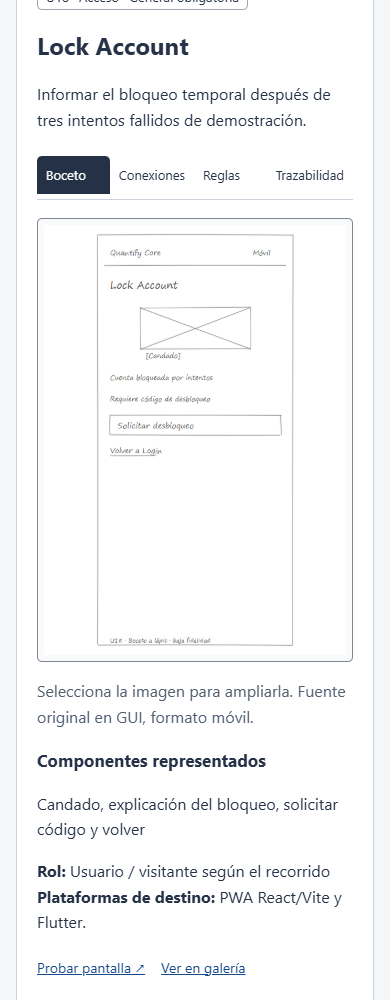
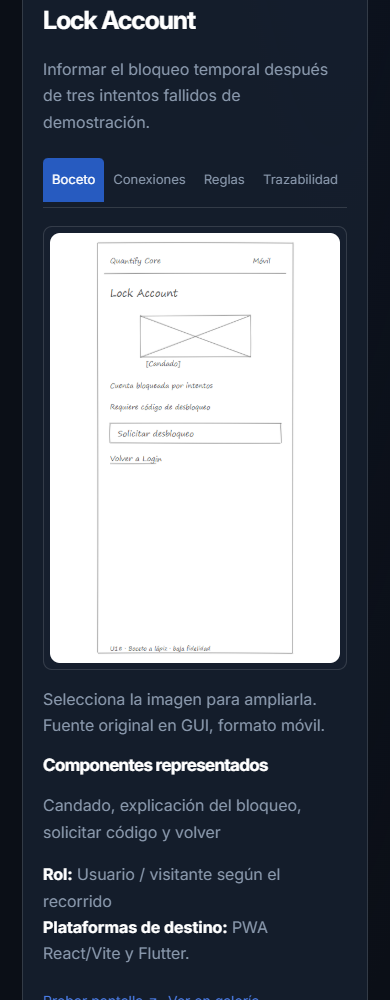
fix(practica-07): aplicar identidad Quantify y destacar Archify

diff --git a/docs/practica-07/entrega.css b/docs/practica-07/entrega.css
@@ -1,1 +1,8 @@
-:root{font-family:system-ui,sans-serif;color:#243146;background:#f5f6f8;line-height:1.6}*{box-sizing:border-box}body{margin:0}header,main,footer{max-width:1180px;margin:auto;padding:24px}header{border-bottom:1px solid #cbd2db}h1{font-size:clamp(25px,4vw,40px);line-height:1.2}h2{line-height:1.3}nav,.links{display:flex;flex-wrap:wrap;gap:16px}a{color:#174a8b}button,select,input{font:inherit;padding:9px;border:1px solid #7c8796;border-radius:5px;background:white;color:#243146}button{cursor:pointer}button[aria-pressed=true]{background:#243146;color:white}a:focus-visible,button:focus-visible{outline:3px solid #956300;outline-offset:3px}.grid{display:grid;grid-template-columns:repeat(auto-fit,minmax(270px,1fr));gap:20px}.card{background:white;border:1px solid #cbd2db;border-radius:10px;padding:20px;min-width:0}.card img{display:block;width:100%;max-height:410px;object-fit:contain;object-position:top;border:1px solid #ddd;background:#fff}small,.muted{color:#526073}.badge{display:inline-block;border:1px solid #a0a8b2;border-radius:5px;padding:2px 8px;font-size:13px}.notice{padding:18px;border-left:4px solid #89611a;background:#fff8e9}table{width:100%;border-collapse:collapse;background:white}th,td{text-align:left;padding:12px;border:1px solid #cbd2db;vertical-align:top}.table-wrap{overflow:auto}.map-layout{display:grid;grid-template-columns:minmax(0,1fr) 320px;gap:18px}.map-wrap{overflow:auto;background:white;border:1px solid #cbd2db}.map-wrap svg{display:block}.map-node{cursor:pointer}.map-node:focus rect{stroke:#89611a;stroke-width:3}#routes button{width:100%;text-align:left;margin:5px 0}#routes img{width:100%;max-height:250px;object-fit:contain}#catalog{margin-top:24px}code{overflow-wrap:anywhere}@media(max-width:800px){.map-layout{display:block}header,main,footer{padding:16px}.grid{grid-template-columns:1fr}#routes{margin-top:18px}}@media print{nav,button{display:none}.grid{grid-template-columns:1fr 1fr}.card{break-inside:avoid}.map-layout{display:block}}
+@import url('../../packages/design-tokens/themes.css');
+@font-face{font-family:Inter;src:url('../GUI/assets/inter.woff2') format('woff2');font-weight:100 900;font-display:swap}
+:root{font-family:Inter,system-ui,sans-serif;color:var(--qc-text);background:var(--qc-canvas);line-height:1.65;--accent:var(--qc-icon-active);--stroke:color-mix(in srgb,var(--qc-text) 13%,transparent);--glass:color-mix(in srgb,var(--qc-surface) 88%,transparent);--blue-wash:color-mix(in srgb,var(--qc-action) 14%,var(--qc-canvas))}*{box-sizing:border-box}body{margin:0;background:radial-gradient(ellipse at 85% 0%,var(--blue-wash),transparent 58%),var(--qc-canvas);min-height:100vh}header,main,footer{max-width:1320px;margin:auto;padding:32px}body>header{padding-top:52px;padding-bottom:38px;border-bottom:1px solid var(--stroke)}h1,h2,h3{letter-spacing:-.035em;line-height:1.16;color:var(--qc-text)}h1{font-size:clamp(32px,4.7vw,62px);max-width:1050px;margin:18px 0 24px;font-weight:750}h2{font-size:25px}h3{font-size:19px}p{color:var(--qc-muted)}strong{color:var(--qc-text)}a{color:var(--accent);text-underline-offset:4px}a:hover{color:var(--qc-text)}nav,.links{display:flex;flex-wrap:wrap;gap:10px}body>header nav{margin-top:25px}body>header nav a{padding:9px 15px;border:1px solid var(--stroke);border-radius:9px;text-decoration:none;font-size:13px;background:var(--glass);color:var(--qc-text)}body>header nav a:hover{border-color:var(--accent);background:var(--blue-wash)}button,select,input{font:inherit;font-size:14px;padding:11px 13px;border:1px solid var(--qc-control-border);border-radius:9px;background:var(--qc-surface);color:var(--qc-text);min-height:44px}button{cursor:pointer;transition:background .16s,border-color .16s}button:hover{border-color:var(--accent);background:var(--blue-wash)}button[aria-pressed=true]{background:var(--qc-action);color:var(--qc-on-action)}a:focus-visible,button:focus-visible,select:focus-visible,input:focus-visible{outline:3px solid var(--qc-focus);outline-offset:3px}.grid{display:grid;grid-template-columns:repeat(auto-fit,minmax(280px,1fr));gap:22px}.card{background:var(--glass);border:1px solid var(--stroke);border-radius:18px;padding:26px;min-width:0;box-shadow:0 12px 30px #00000008}.card img{display:block;width:100%;max-height:410px;object-fit:contain;object-position:top;border:1px solid var(--stroke);background:white;border-radius:10px}small,.muted{color:var(--qc-muted)}.badge,.eyebrow{font-size:11px;letter-spacing:.1em;text-transform:uppercase;font-weight:700;color:var(--accent)}.badge{display:inline-flex;align-items:center;gap:8px;border:1px solid color-mix(in srgb,var(--qc-action) 35%,transparent);background:var(--blue-wash);border-radius:7px;padding:5px 10px}.notice{padding:20px;border-left:3px solid var(--qc-action);background:var(--blue-wash)}table{width:100%;border-collapse:collapse;background:var(--qc-surface);font-size:14px}th,td{text-align:left;padding:14px 17px;border:1px solid var(--stroke);vertical-align:top}th{background:var(--blue-wash);font-size:12px;color:var(--accent)}.table-wrap{overflow:auto;border-radius:12px}.map-wrap{overflow:auto;background:var(--qc-surface);border:1px solid var(--stroke)}.map-wrap svg{display:block}.map-node{cursor:pointer}.map-node rect{fill:var(--qc-surface);stroke:var(--qc-control-border)}.map-node[aria-pressed=true] rect{fill:var(--blue-wash);stroke:var(--accent)}.map-node text{fill:var(--qc-text)}.map-node text:first-of-type{fill:var(--accent)}.map-node:focus rect{stroke:var(--qc-focus);stroke-width:3}.map-edge{stroke:var(--accent)}#routes button{width:100%;text-align:left;margin:5px 0}#routes img{width:100%;max-height:250px;object-fit:contain}#catalog{margin-top:26px}#catalog .card h2{font-size:21px}#catalog .card .links a{font-size:12px}code{overflow-wrap:anywhere;color:var(--accent)}summary{cursor:pointer}footer{margin-top:40px;border-top:1px solid var(--stroke);font-size:13px;color:var(--qc-muted)}
+.site-topbar{position:sticky;top:0;z-index:50;background:color-mix(in srgb,var(--qc-canvas) 94%,transparent);backdrop-filter:blur(18px);border-bottom:1px solid var(--stroke)}.site-topbar-inner{max-width:1320px;margin:auto;padding:15px 32px;display:flex;align-items:center;justify-content:space-between;gap:24px}.site-brand{display:flex;align-items:center;gap:12px;text-decoration:none;color:var(--qc-text);font-size:18px;font-weight:750;white-space:nowrap;letter-spacing:-.05em}.site-brand img{width:58px;height:43px;object-fit:contain;background:transparent}.site-topbar nav{align-items:center;gap:22px}.site-topbar nav a{font-size:12px;text-decoration:none;color:var(--qc-muted)}.site-topbar nav a.active{color:var(--accent)}.site-topbar button{font-size:12px;min-height:34px;padding:6px 11px;border-color:var(--stroke)}.brand-footer{display:flex;align-items:center;justify-content:space-between;gap:20px;margin-top:36px}.brand-footer img{width:105px;height:70px;object-fit:contain;background:transparent}.pill-link,.action-link{display:inline-flex;align-items:center;justify-content:center;gap:12px;border-radius:10px;padding:12px 18px;text-decoration:none;font-size:13px;font-weight:650;border:1px solid var(--stroke);color:var(--qc-text);background:var(--qc-surface)}.action-link{background:var(--qc-action);border-color:var(--qc-action);color:var(--qc-on-action)}.action-link:hover{background:var(--qc-focus);color:var(--qc-on-action)}.pill-link:hover{border-color:var(--accent);background:var(--blue-wash)}
+.landing-hero{display:grid;grid-template-columns:1.2fr 1fr;align-items:center;gap:70px;padding-top:55px;padding-bottom:58px}.landing-hero h1{font-size:clamp(38px,5.1vw,68px);line-height:1.05;letter-spacing:-.055em}.landing-hero h1 em{font-style:normal;color:var(--accent)}.landing-hero .hero-copy{max-width:550px;font-size:15px}.hero-actions{display:flex;flex-wrap:wrap;gap:12px;margin-top:26px}.hero-stats{display:flex;gap:32px;margin-top:35px}.hero-stats strong{font-size:28px;display:block;letter-spacing:-.04em}.hero-stats span{display:block;color:var(--qc-muted);font-size:11px;letter-spacing:.04em}.hero-board{position:relative;border:1px solid var(--stroke);background:linear-gradient(145deg,var(--blue-wash),var(--qc-surface));border-radius:24px;padding:30px;overflow:hidden;box-shadow:0 30px 70px #00000022}.hero-board>img{display:block;width:180px;height:100px;object-fit:contain;margin:0 auto 20px}.board-label{display:flex;justify-content:space-between;font-size:10px;letter-spacing:.1em;color:var(--qc-muted);margin-bottom:22px}.board-label i{height:7px;width:7px;display:inline-block;background:var(--accent);border-radius:50%;margin-right:6px}.flow-row{display:flex;align-items:center;justify-content:center;gap:12px}.flow-node{border:1px solid var(--stroke);background:var(--qc-surface);padding:15px;border-radius:10px;flex:1;font-size:13px;font-weight:600;text-align:center}.flow-node small{display:block;font-size:10px;font-weight:400;margin-top:5px}.flow-node.blue{border-color:var(--qc-action);background:var(--blue-wash)}.flow-connector{text-align:center;color:var(--accent);font-size:23px;line-height:1.5;margin:8px}.board-caption{font-size:11px;margin:22px 0 0;text-align:center;color:var(--qc-muted)}.section-heading{display:flex;align-items:end;justify-content:space-between;gap:20px;margin:15px 0 24px}.section-heading h2{font-size:30px;margin:7px 0}.section-heading p{font-size:13px;margin:0}.feature-grid{display:grid;grid-template-columns:repeat(2,minmax(0,1fr));gap:20px}.feature-card{display:grid;grid-template-columns:1fr 130px;gap:22px;align-items:center;text-decoration:none;color:var(--qc-text);padding:26px;background:var(--qc-surface);border:1px solid var(--stroke);border-radius:16px}.feature-card:hover{border-color:var(--accent);transform:translateY(-2px)}.feature-card h3{font-size:22px;margin:12px 0}.feature-card p{font-size:13px;margin:0 0 18px}.feature-card>img{width:130px;height:170px;object-fit:contain;background:white;border-radius:8px;padding:6px}.feature-card .card-action{font-size:12px;color:var(--accent);font-weight:650}.feature-card .feature-number{font-size:11px;color:var(--accent);font-weight:600;letter-spacing:.1em}.feature-card .symbol{font-size:44px;text-align:center;color:var(--accent);opacity:.9}.archify-callout{display:flex;align-items:center;justify-content:space-between;gap:24px;margin:28px 0;padding:27px 30px;background:linear-gradient(110deg,var(--blue-wash),var(--qc-surface));border:1px solid color-mix(in srgb,var(--qc-action) 45%,transparent);border-radius:16px}.archify-callout h2{margin:7px 0;font-size:24px}.archify-callout p{font-size:13px;max-width:650px;margin:0}.archify-viewer{width:100%;height:76vh;border:1px solid var(--stroke);border-radius:16px;background:var(--qc-surface)}.top-archify{display:flex;align-items:center;gap:16px;justify-content:space-between;margin:0 0 24px;padding:18px 22px;border:1px solid var(--qc-action);border-radius:13px;background:var(--blue-wash)}.top-archify p{font-size:12px;margin:4px 0}.top-archify strong{font-size:14px}
+@media(max-width:900px){.landing-hero{grid-template-columns:1fr;gap:32px}.hero-board{max-width:600px}.site-topbar nav a:not(.active){display:none}.site-topbar-inner{gap:12px}.landing-hero h1{max-width:670px}.feature-card{grid-template-columns:1fr 100px}.feature-card>img{width:100px}}
+@media(max-width:600px){header,main,footer{padding:22px}.site-topbar-inner{padding:12px 18px}.site-brand{font-size:15px;gap:7px}.site-brand img{width:42px;height:32px}.site-topbar nav{gap:10px}.site-topbar nav a.active{display:none}.feature-grid{grid-template-columns:1fr}.feature-card{padding:22px;gap:12px}.landing-hero{padding-top:32px;padding-bottom:32px}.hero-stats{gap:26px}.hero-board{padding:22px}.archify-callout,.top-archify{flex-direction:column;align-items:stretch}.section-heading{align-items:start;flex-direction:column}.grid{grid-template-columns:minmax(0,1fr)}.card{padding:20px}.brand-footer{align-items:start}.site-topbar{position:relative}h1{font-size:36px}}
+@media print{.site-topbar,nav,button{display:none}:root{--qc-canvas:white;--qc-surface:white;--qc-text:black;--qc-muted:#333}body{background:white}.card{break-inside:avoid}.feature-grid{grid-template-columns:1fr}}

diff --git a/docs/practica-07/entrega.html b/docs/practica-07/entrega.html
@@ -1,17 +1,10 @@
-<!doctype html>
-<html lang="es"><head><meta charset="utf-8"><meta name="viewport" content="width=device-width,initial-scale=1"><title>Práctica 07 · Revisión</title><link rel="stylesheet" href="entrega.css"></head>
-<body><header><p>PRÁCTICA 07</p><h1>Navegación de sketches</h1><p>Revisa los quince puntos desde una sola carpeta: requisitos, roles, 33 pantallas, recorridos, diagramas y evidencias. Los bocetos originales se consultan en GUI.</p><nav><a href="revision.html">Guía completa de los 15 puntos</a><a href="../../index.html#proyecto">Proyecto</a><a href="../GUI/practica-07.html">GUI</a></nav></header>
-<main><div class="grid">
-<article class="card"><span class="badge">01 · Documentación</span><h2>Qué se solicita y dónde está</h2><p>La guía organiza los quince puntos con referencias a las fuentes, fichas por pantalla y criterios de revisión.</p><p><a href="revision.html#índice">Revisar punto por punto →</a></p><a href="revision.html#punto-1">Requisitos e historias</a></article>
-<article class="card"><span class="badge">02 · Bocetos</span><h2>Galería móvil y PWA</h2><a href="galeria.html"><img src="evidencias/contacto-movil.png" alt="Vista de los 33 sketches móviles" loading="lazy"></a><p>Nueve vistas generales y 24 adicionales. Cada pantalla enlaza al dibujo original, su ficha y su recorrido.</p><a href="galeria.html">Abrir galería →</a></article>
-<article class="card"><span class="badge">03 · Navegación</span><h2>Explorar las conexiones</h2><a href="navegacion.html#U02"><img src="../GUI/prototipos/pwa/sketches/practica-07/U02.png" alt="Boceto PWA del acceso, disponible dentro del explorador" loading="lazy"></a><p>Mapa con imágenes, ocho recorridos guiados, búsqueda, zoom y pestañas con conexiones, reglas y trazabilidad.</p><a href="navegacion.html">Abrir explorador →</a></article>
-<article class="card"><span class="badge">04 · Prototipo</span><h2>Probar las pantallas</h2><a href="index.html#usuario/U06"><img src="../GUI/prototipos/movil/sketches/practica-07/U06.png" alt="Boceto de Home" loading="lazy"></a><p>Simulación de acceso, recuperación, bloqueo, hábitos, seguimiento y operaciones administrativas en dos formatos.</p><a href="index.html">Recorrer prototipo →</a></article>
-</div>
-<h2>Documentos y ubicaciones originales</h2><div class="table-wrap"><table><thead><tr><th>Recurso</th><th>Consulta</th><th>Qué revisar</th></tr></thead><tbody>
-<tr><td>Requisitos</td><td><a href="lecturas/requisitos.html">Catálogo</a></td><td>49 operaciones en diez familias y quince requisitos no funcionales</td></tr>
-<tr><td>Historias y reglas</td><td><a href="lecturas/historias.html">Historias</a> · <a href="lecturas/reglas.html">Reglas</a></td><td>Actores, objetivos, aceptación y condiciones del dominio</td></tr>
-<tr><td>Sketches</td><td><a href="../GUI/practica-07.html">GUI móvil</a> · <a href="../GUI/practica-07.html">GUI PWA</a></td><td>66 PNG y 66 SVG, sin copias en esta carpeta</td></tr>
-<tr><td>Archify</td><td><a href="navegacion.html#U16">Original y ampliación en el explorador</a></td><td>Original conservado de doce pantallas; especificación ampliada pendiente de ejecución</td></tr>
-<tr><td>Validación</td><td><a href="revision.html#validacion">Resultados y evidencias</a></td><td>Escenarios ejecutados, capturas y límites de las comprobaciones</td></tr>
-</tbody></table></div><p><a href="revision.html#cumplimiento">Consultar estado de cumplimiento y pendientes →</a></p></main>
-<footer>Práctica 07 · <a href="revision.html">Documentación completa</a></footer></body></html>
+<!doctype html><html lang="es"><head><meta charset="utf-8"><meta name="viewport" content="width=device-width,initial-scale=1"><meta name="theme-color" content="#0B0F17"><title>Quantify · Práctica 07</title><script src="marca.js"></script><link rel="stylesheet" href="entrega.css"></head><body>
+<header class="landing-hero"><div><span class="badge">Proyecto integrador / Práctica 07</span><h1>Cada pantalla.<br>Un recorrido<br><em>con propósito.</em></h1><p class="hero-copy">De la primera sesión al siguiente hábito. Explora las interfaces de Quantify, sus conexiones y las decisiones detrás de cada paso.</p><div class="hero-actions"><a class="action-link" href="archify.html">Abrir Archify interactivo ↗</a><a class="pill-link" href="revision.html">Revisar los 15 puntos →</a></div><div class="hero-stats"><div><strong>33</strong><span>PANTALLAS</span></div><div><strong>131</strong><span>CONEXIONES</span></div><div><strong>02</strong><span>PLATAFORMAS</span></div></div></div><div class="hero-board" aria-label="Vista general de los recorridos"><div class="board-label"><span><i></i>QUANTIFY / EXPERIENCE MAP</span><span>V.07</span></div><img src="../../assets/images/brand/product-dark.png" alt="Quantify"><div class="flow-row"><div class="flow-node blue">Acceso<small>Identidad y seguridad</small></div></div><div class="flow-connector" aria-hidden="true">↓</div><div class="flow-row"><div class="flow-node">Tu rutina<small>Hábitos y progreso</small></div><span aria-hidden="true">→</span><div class="flow-node blue">Seguimiento<small>Análisis y resultados</small></div></div><div class="flow-connector" aria-hidden="true">↓</div><div class="flow-row"><div class="flow-node">Recomendaciones<small>Decisiones del usuario</small></div><span aria-hidden="true">↔</span><div class="flow-node">Ajustes<small>Preferencias y control</small></div></div><p class="board-caption">Usuario y administrador · Móvil y PWA</p></div></header>
+<main><div class="section-heading"><div><span class="eyebrow">EXPLORA LA PRÁCTICA</span><h2>Todo conectado. Todo en su lugar.</h2></div><p>Elige cómo quieres revisar el proyecto.</p></div><div class="feature-grid">
+<a class="feature-card" href="revision.html"><div><span class="feature-number">01 / GUÍA DE REVISIÓN</span><h3>Los 15 puntos,<br>paso a paso.</h3><p>Requisitos, roles, navegación, decisiones y resultados. Una guía clara para revisar lo solicitado.</p><span class="card-action">Comenzar la revisión →</span></div><div class="symbol" aria-hidden="true">≡<br><small>01 — 15</small></div></a>
+<a class="feature-card" href="../GUI/practica-07.html"><div><span class="feature-number">02 / GALERÍA GUI</span><h3>La idea antes<br>de la interfaz.</h3><p>Los 33 sketches originales, organizados por rol y disponibles en móvil y PWA.</p><span class="card-action">Explorar los bocetos →</span></div><img src="../GUI/prototipos/movil/sketches/practica-07/U06.png" alt="Sketch original de Home"></a>
+<a class="feature-card" href="navegacion.html"><div><span class="feature-number">03 / MAPA COMPLETO</span><h3>Cada acción tiene<br>un siguiente paso.</h3><p>33 pantallas, 131 conexiones y ocho recorridos guiados. Consulta bocetos, reglas y condiciones.</p><span class="card-action">Abrir el mapa conectado →</span></div><div class="symbol" aria-hidden="true">⌘<br><small>33 NODOS</small></div></a>
+<a class="feature-card" href="index.html"><div><span class="feature-number">04 / PROTOTIPO</span><h3>Recorre Quantify<br>a tu ritmo.</h3><p>Prueba las pantallas de acceso, hábitos, análisis y administración en dos formatos.</p><span class="card-action">Probar el recorrido →</span></div><img src="../GUI/prototipos/movil/sketches/practica-07/U02.png" alt="Sketch original de Login"></a></div>
+<section class="archify-callout"><div><span class="eyebrow">ARCHIFY INTERACTIVO</span><h2>El diagrama original, a un clic.</h2><p>Abre el artefacto generado con Archify. Para consultar las 33 pantallas de la ampliación, usa el mapa completo.</p></div><a class="action-link" href="archify.html">Abrir Archify ↗</a></section>
+<div class="section-heading"><div><span class="eyebrow">PROFUNDIZA</span><h2>Detrás de cada pantalla.</h2></div></div><div class="grid"><article class="card"><span class="badge">FICHAS</span><h3>Qué hace cada pantalla</h3><p>Componentes, acciones, roles y relaciones de las 33 vistas.</p><a href="fichas.html">Consultar las fichas →</a></article><article class="card"><span class="badge">BASE DEL PROYECTO</span><h3>Requisitos e historias</h3><p>Las necesidades y reglas que justifican los recorridos.</p><a href="lecturas/requisitos.html">Consultar requisitos →</a></article><article class="card"><span class="badge">VALIDACIÓN</span><h3>Decisiones y resultados</h3><p>Proceso, recorridos comprobados, evidencias y pendientes.</p><a href="referencia.html#validacion">Consultar revisión →</a></article></div></main>
+<footer class="brand-footer"><a class="site-brand" href="../../index.html#practica-07"><img src="../../assets/images/brand/product-dark.png" alt="Quantify"><span>Quantify Core</span></a><span>Práctica 07 / Diseño de navegación<br><a href="revision.html">Ver la guía completa →</a></span></footer></body></html>

diff --git a/docs/practica-07/referencia.html b/docs/practica-07/referencia.html
@@ -1,5 +1,5 @@
 <!doctype html>
-<html lang="es"><head><meta charset="utf-8"><meta name="viewport" content="width=device-width,initial-scale=1"><title>Referencia técnica de Práctica 07</title><link rel="stylesheet" href="./entrega.css"><link rel="stylesheet" href="./lectura.css"><script src="./lectura.js" defer></script></head>
+<html lang="es"><head><meta charset="utf-8"><meta name="viewport" content="width=device-width,initial-scale=1"><title>Referencia técnica de Práctica 07</title><script src="./marca.js"></script><link rel="stylesheet" href="./entrega.css"><link rel="stylesheet" href="./lectura.css"><script src="./lectura.js" defer></script></head>
 <body><header><p class="eyebrow">PRÁCTICA 07</p><nav aria-label="Sección Práctica 07"><a href="../../index.html#practica-07">Volver al portal</a><a href="./revision.html">Los 15 puntos</a><a href="./navegacion.html">Diagrama conectado</a><a href="../GUI/practica-07.html">Galería de sketches</a><a href="./index.html">Prototipo</a></nav></header>
 <main class="reading"><h1 id="referencia-técnica-de-práctica-07">Referencia técnica de Práctica 07</h1>
 <p><a href="revision.html">Volver al README y sus 15 puntos</a>. Aquí se conservan las tablas detalladas, los comandos, el proceso y los resultados de pruebas.</p>
@@ -663,6 +663,10 @@ node docs/practica-07/tests/explorador-browser.cjs
 <p>El mapa complementario, la especificación preparada y el prompt propuesto no sustituyen una ejecución demostrable de Archify. La fusión o publicación no se realiza como efecto de editar esta matriz.</p>
 <p><a id="proceso"></a></p>
 <h2 id="proceso-decisiones-y-prompts">Proceso, decisiones y prompts</h2>
+<h3 id="identidad-visual-del-sitio-12-de-noviembre-de-2026">Identidad visual del sitio · 12 de noviembre de 2026</h3>
+<p>Se personalizaron la portada, las lecturas, la galería y el explorador con el logo existente de Quantify, Inter local y los colores de <code>packages/design-tokens/themes.css</code>. La interfaz comparte encabezado, temas oscuro/claro, tarjetas y jerarquía visual. Los PNG/SVG de sketches y el estilo del prototipo se conservaron.</p>
+<p>El acceso a <a href="archify.html">Archify interactivo</a> aparece en el encabezado común, en la portada y en la sección del portal. Su página carga directamente el HTML original en una vista amplia, con acceso a pantalla completa y al mapa ampliado. Esto mejora su visibilidad; no se presenta como una nueva generación del artefacto.</p>
+<p>Validación: cinco comprobaciones del portal y ocho del explorador aprobadas. Se revisaron además portada, guía, mapa y Archify a 390/1440 píxeles, carga de logo/fuente, cambio de tema y carga del original, sin desbordamientos ni errores locales. <a href="evidencias/resultados-marca.json">Informe visual</a> · <a href="evidencias/marca-entrega-1440.png">Portada</a> · <a href="evidencias/marca-revision-1440.png">Guía</a> · <a href="evidencias/marca-archify-390.png">Archify móvil</a>.</p>
 <h3 id="integración-en-el-portal-12-de-noviembre-de-2026">Integración en el portal · 12 de noviembre de 2026</h3>
 <p>La sección <code>#practica-07</code> del portal abre la guía de quince puntos, el mapa, la galería, el prototipo, las fichas y los resultados como vistas del mismo sitio. Se retiraron de esos accesos las URLs de archivos en GitHub y las etiquetas HTML/MD. El mapa parte de las 33 pantallas y dibuja las 131 transiciones; las salidas seleccionadas se resaltan sobre las demás.</p>
 <p>Las lecturas se generan desde el Markdown canónico, sin editar otra definición del contenido. Para regenerarlas, instalar <code>Markdown==3.8.2</code> en una carpeta temporal, exponerla mediante <code>PYTHONPATH</code> y ejecutar <code>python docs/practica-07/scripts/publicar-lecturas.py</code>. No modifica alojamiento ni publica por sí mismo.</p>

diff --git a/docs/GUI/practica-07.html b/docs/GUI/practica-07.html
@@ -1,1 +1,1 @@
-<!doctype html><html lang="es"><head><meta charset="utf-8"><meta name="viewport" content="width=device-width,initial-scale=1"><title>Práctica 07 · Galería de sketches</title><link rel="stylesheet" href="../practica-07/entrega.css"><script src="../practica-07/data.js" defer></script><script src="../practica-07/entrega.js" defer></script></head><body data-page="gallery" data-base="../practica-07/"><header><p>QUANTIFY CORE · PRÁCTICA 07</p><h1>33 sketches, dos plataformas</h1><p>Nueve pantallas generales obligatorias, funciones por rol y recorridos alternativos. Cada ficha incluye el boceto completo y su enlace al prototipo.</p><nav><a href="../practica-07/entrega.html">Guía de entrega</a><a href="../practica-07/index.html">Prototipo</a><a href="../practica-07/mapa-completo.html">Mapa completo</a><a href="../practica-07/fichas.html">Fichas de pantallas</a></nav></header><main><label>Filtrar por rol <select id="role-filter"><option value="all">Todos</option><option value="usuario">Usuario / visitante</option><option value="admin">Administrador</option></select></label> <label>Formato <select id="format-filter"><option value="movil">Móvil · Flutter (destino)</option><option value="pwa">PWA · React/Vite (destino)</option></select></label><p id="count" role="status"></p><div class="grid" id="catalog"></div></main><footer>Prototipo académico HTML/CSS/JS. Los clientes React/Vite y Flutter son las plataformas de destino del diseño.</footer></body></html>
+<!doctype html><html lang="es"><head><meta charset="utf-8"><meta name="viewport" content="width=device-width,initial-scale=1"><title>Práctica 07 · Galería de sketches</title><script src="../practica-07/marca.js"></script><link rel="stylesheet" href="../practica-07/entrega.css"><script src="../practica-07/data.js" defer></script><script src="../practica-07/entrega.js" defer></script></head><body data-page="gallery" data-base="../practica-07/"><header><p>QUANTIFY CORE · PRÁCTICA 07</p><h1>33 sketches, dos plataformas</h1><p>Nueve pantallas generales obligatorias, funciones por rol y recorridos alternativos. Cada ficha incluye el boceto completo y su enlace al prototipo.</p><nav><a href="../practica-07/entrega.html">Guía de entrega</a><a href="../practica-07/index.html">Prototipo</a><a href="../practica-07/mapa-completo.html">Mapa completo</a><a href="../practica-07/fichas.html">Fichas de pantallas</a></nav></header><main><label>Filtrar por rol <select id="role-filter"><option value="all">Todos</option><option value="usuario">Usuario / visitante</option><option value="admin">Administrador</option></select></label> <label>Formato <select id="format-filter"><option value="movil">Móvil · Flutter (destino)</option><option value="pwa">PWA · React/Vite (destino)</option></select></label><p id="count" role="status"></p><div class="grid" id="catalog"></div></main><footer>Prototipo académico HTML/CSS/JS. Los clientes React/Vite y Flutter son las plataformas de destino del diseño.</footer></body></html>

diff --git a/docs/practica-07/lectura.css b/docs/practica-07/lectura.css
@@ -1,1 +1,3 @@
 .reading{max-width:1080px}.reading h2{margin-top:46px;padding-top:12px;border-top:1px solid #cbd2db}.reading h3{margin-top:28px}.reading p,.reading li{max-width:90ch}.reading img{max-width:100%;height:auto}.reading pre{overflow:auto;padding:18px;background:#fff;border:1px solid #cbd2db;border-radius:8px}.reading details{margin:14px 0;padding:14px;background:#fff;border:1px solid #cbd2db;border-radius:8px}.reading summary{cursor:pointer;font-weight:650}.reading .table-wrap{margin:18px 0}.reading a{overflow-wrap:anywhere}.eyebrow{font-size:12px;font-weight:700;letter-spacing:.12em}footer{display:flex;gap:20px;flex-wrap:wrap;justify-content:space-between}html{scroll-padding-top:20px}.reading ol:first-of-type{background:white;border:1px solid #cbd2db;border-radius:10px;padding:22px 22px 22px 45px}.reading ol:first-of-type li{margin:5px 0}@media(max-width:600px){.reading h1{font-size:27px}.reading th,.reading td{padding:9px;font-size:14px}}@media(prefers-reduced-motion:no-preference){html{scroll-behavior:smooth}}
+
+.reading{max-width:1180px}.reading>h1{font-size:clamp(34px,4.5vw,58px);margin-top:25px}.reading h2{border-color:var(--stroke);padding-top:24px}.reading pre,.reading details{background:var(--qc-surface);border-color:var(--stroke);border-radius:12px}.reading ol:first-of-type{display:grid;grid-template-columns:repeat(3,minmax(0,1fr));gap:10px;list-style:none;counter-reset:points;padding:18px;background:var(--qc-surface);border-color:var(--stroke)}.reading ol:first-of-type li{margin:0;counter-increment:points;border:1px solid var(--stroke);border-radius:9px;padding:13px;font-size:12px;display:flex;gap:10px;align-items:start}.reading ol:first-of-type li::before{content:counter(points,decimal-leading-zero);color:var(--accent);font-size:11px;font-weight:700}.reading ol:first-of-type li a{text-decoration:none;color:var(--qc-text)}.reading ol:first-of-type li:hover{border-color:var(--accent);background:var(--blue-wash)}.reading h2:target{color:var(--accent)}@media(max-width:800px){.reading ol:first-of-type{grid-template-columns:repeat(2,minmax(0,1fr))}}@media(max-width:500px){.reading ol:first-of-type{grid-template-columns:minmax(0,1fr)}}

diff --git a/docs/practica-07/marca.js b/docs/practica-07/marca.js
@@ -1,0 +1,4 @@
+/* Identidad del sitio; los dibujos y el prototipo no se modifican. */
+(()=>{const script=document.currentScript,base=new URL('.',script.src),root=new URL('../../',base);let mode='dark';try{const saved=JSON.parse(localStorage.getItem('qc-theme'));if(saved&&['dark','light'].includes(saved.mode))mode=saved.mode;}catch{}document.documentElement.dataset.qcTheme=mode;
+const url=path=>new URL(path,base).href;const logo=()=>new URL(mode==='dark'?'assets/images/brand/product-dark.png':'assets/images/productLogo.jpeg',root).href;
+document.addEventListener('DOMContentLoaded',()=>{const bar=document.createElement('div');bar.className='site-topbar';bar.innerHTML=`<div class="site-topbar-inner"><a class="site-brand" href="${new URL('index.html#practica-07',root).href}"><img id="qc-brand-logo" src="${logo()}" alt="Logotipo Quantify"><span>Quantify Core</span></a><nav aria-label="Navegación de Práctica 07"><a href="${url('entrega.html')}">Práctica 07</a><a href="${url('revision.html')}">Guía</a><a href="${url('navegacion.html')}">Mapa</a><a href="${url('archify.html')}" class="active">Archify ↗</a><button id="qc-theme-toggle" type="button" aria-label="Cambiar tema">${mode==='dark'?'☀ Claro':'☾ Oscuro'}</button></nav></div>`;document.body.prepend(bar);const button=document.querySelector('#qc-theme-toggle');button.addEventListener('click',()=>{mode=mode==='dark'?'light':'dark';document.documentElement.dataset.qcTheme=mode;document.querySelector('#qc-brand-logo').src=logo();button.textContent=mode==='dark'?'☀ Claro':'☾ Oscuro';try{const saved=JSON.parse(localStorage.getItem('qc-theme'))||{};localStorage.setItem('qc-theme',JSON.stringify({...saved,mode,palette:saved.palette||'tech'}));}catch{}});});})();

diff --git a/docs/practica-07/lecturas/historias.html b/docs/practica-07/lecturas/historias.html
@@ -1,5 +1,5 @@
 <!doctype html>
-<html lang="es"><head><meta charset="utf-8"><meta name="viewport" content="width=device-width,initial-scale=1"><title>UHs · Historias de usuario</title><link rel="stylesheet" href="../entrega.css"><link rel="stylesheet" href="../lectura.css"><script src="../lectura.js" defer></script></head>
+<html lang="es"><head><meta charset="utf-8"><meta name="viewport" content="width=device-width,initial-scale=1"><title>UHs · Historias de usuario</title><script src="../marca.js"></script><link rel="stylesheet" href="../entrega.css"><link rel="stylesheet" href="../lectura.css"><script src="../lectura.js" defer></script></head>
 <body><header><p class="eyebrow">PRÁCTICA 07</p><nav aria-label="Sección Práctica 07"><a href="../../../index.html#practica-07">Volver al portal</a><a href="../revision.html">Los 15 puntos</a><a href="../navegacion.html">Diagrama conectado</a><a href="../../GUI/practica-07.html">Galería de sketches</a><a href="../index.html">Prototipo</a></nav></header>
 <main class="reading"><h1 id="uhs-historias-de-usuario">UHs · Historias de usuario</h1>
 <p>Esta carpeta es la fuente de las historias del producto. Los objetivos se definen aquí; las operaciones y los criterios AC se mantienen en el <a href="requisitos.html">catálogo</a>, las políticas en <a href="reglas.html">reglas de negocio</a> y los escenarios CA en <a href="aceptacion.html">aceptación</a>. <strong>Estado:</strong> historias propuestas; no equivalen a tickets asignados ni funcionalidades implementadas.</p>

diff --git a/docs/practica-07/lecturas/requisitos.html b/docs/practica-07/lecturas/requisitos.html
@@ -1,5 +1,5 @@
 <!doctype html>
-<html lang="es"><head><meta charset="utf-8"><meta name="viewport" content="width=device-width,initial-scale=1"><title>Catálogo de requisitos</title><link rel="stylesheet" href="../entrega.css"><link rel="stylesheet" href="../lectura.css"><script src="../lectura.js" defer></script></head>
+<html lang="es"><head><meta charset="utf-8"><meta name="viewport" content="width=device-width,initial-scale=1"><title>Catálogo de requisitos</title><script src="../marca.js"></script><link rel="stylesheet" href="../entrega.css"><link rel="stylesheet" href="../lectura.css"><script src="../lectura.js" defer></script></head>
 <body><header><p class="eyebrow">PRÁCTICA 07</p><nav aria-label="Sección Práctica 07"><a href="../../../index.html#practica-07">Volver al portal</a><a href="../revision.html">Los 15 puntos</a><a href="../navegacion.html">Diagrama conectado</a><a href="../../GUI/practica-07.html">Galería de sketches</a><a href="../index.html">Prototipo</a></nav></header>
 <main class="reading"><h1 id="catálogo-de-requisitos">Catálogo de requisitos</h1>
 <p><strong>Estado:</strong> especificación propuesta del producto. Este catálogo es la fuente única de requisitos y criterios AC; las <a href="historias.html">historias</a>, <a href="reglas.html">reglas</a> y <a href="../revision.html#punto-1">selección de Práctica 07</a> se consultan mediante referencias. No acredita implementación ni aprobación del equipo.</p>

diff --git a/docs/practica-07/navegacion.html b/docs/practica-07/navegacion.html
@@ -4,7 +4,7 @@
   <meta charset="utf-8">
   <meta name="viewport" content="width=device-width,initial-scale=1">
   <title>Práctica 07 · Explorador de navegación</title>
-  <link rel="stylesheet" href="entrega.css">
+  <script src="marca.js"></script><link rel="stylesheet" href="entrega.css">
   <link rel="stylesheet" href="navegacion.css">
   <script src="data.js" defer></script>
   <script src="navegacion.js" defer></script>
@@ -17,6 +17,7 @@
     <nav aria-label="Recursos de la práctica"><a href="entrega.html">Inicio de la práctica</a><a href="revision.html">Documentación completa</a><a href="galeria.html">Galería</a><a href="index.html">Prototipo</a></nav>
   </header>
   <main>
+    <section class="top-archify"><div><span class="eyebrow">ARCHIFY INTERACTIVO</span><p>Abre el diagrama original generado con Archify. Aquí puedes explorar además las 33 pantallas del mapa ampliado.</p></div><a class="action-link" href="archify.html">Abrir Archify ↗</a></section>
     <section class="toolbar card" aria-label="Explorar pantallas">
       <label>Rol <select id="role-filter"><option value="all">Todos · 33 pantallas</option><option value="usuario">Usuario / visitante</option><option value="admin">Administrador</option></select></label>
       <label>Formato del boceto <select id="format-filter"><option value="movil">Móvil · Flutter</option><option value="pwa">PWA · React/Vite</option></select></label>

diff --git a/docs/practica-07/lecturas/reglas.html b/docs/practica-07/lecturas/reglas.html
@@ -1,5 +1,5 @@
 <!doctype html>
-<html lang="es"><head><meta charset="utf-8"><meta name="viewport" content="width=device-width,initial-scale=1"><title>Reglas de negocio</title><link rel="stylesheet" href="../entrega.css"><link rel="stylesheet" href="../lectura.css"><script src="../lectura.js" defer></script></head>
+<html lang="es"><head><meta charset="utf-8"><meta name="viewport" content="width=device-width,initial-scale=1"><title>Reglas de negocio</title><script src="../marca.js"></script><link rel="stylesheet" href="../entrega.css"><link rel="stylesheet" href="../lectura.css"><script src="../lectura.js" defer></script></head>
 <body><header><p class="eyebrow">PRÁCTICA 07</p><nav aria-label="Sección Práctica 07"><a href="../../../index.html#practica-07">Volver al portal</a><a href="../revision.html">Los 15 puntos</a><a href="../navegacion.html">Diagrama conectado</a><a href="../../GUI/practica-07.html">Galería de sketches</a><a href="../index.html">Prototipo</a></nav></header>
 <main class="reading"><h1 id="reglas-de-negocio">Reglas de negocio</h1>
 <p><strong>Estado:</strong> propuesta coherente para la primera implementación. Los parámetros pendientes deben cerrarse en <a href="../../arquitectura/decisiones-pendientes.md">decisiones</a> y reflejarse en contratos antes de habilitar funciones dependientes. Los nombres RN-P distinguen estas reglas de las RN históricas del prototipo.</p>

diff --git a/docs/practica-07/archify.html b/docs/practica-07/archify.html
@@ -1,0 +1,1 @@
+<!doctype html><html lang="es"><head><meta charset="utf-8"><meta name="viewport" content="width=device-width,initial-scale=1"><title>Quantify · Archify interactivo</title><script src="marca.js"></script><link rel="stylesheet" href="entrega.css"></head><body><header><span class="badge">ARCHIFY / DIAGRAMA INTERACTIVO</span><h1>Explora el recorrido original.</h1><p>El diagrama generado con Archify se carga aquí directamente. Selecciona nodos, cambia el tema y explora sus paneles. Este artefacto conserva doce pantallas de la versión original.</p><nav><a href="navegacion.html">Mapa ampliado · 33 pantallas →</a><a href="archify/navegacion-original.html" target="_blank" rel="noopener">Abrir original en otra pestaña ↗</a><button id="fullscreen" type="button">Ver a pantalla completa ↗</button></nav></header><main><iframe class="archify-viewer" id="archify-viewer" src="archify/navegacion-original.html?theme=dark" title="Diagrama interactivo original generado con Archify" allow="fullscreen"></iframe><p class="muted">El mapa ampliado reúne las 33 pantallas y 131 conexiones. La generación ampliada con Archify sigue pendiente.</p></main><footer><a href="entrega.html">← Volver a Práctica 07</a></footer><script>document.querySelector('#fullscreen').addEventListener('click',()=>document.querySelector('#archify-viewer').requestFullscreen());</script></body></html>

diff --git a/docs/practica-07/revision.html b/docs/practica-07/revision.html
@@ -1,5 +1,5 @@
 <!doctype html>
-<html lang="es"><head><meta charset="utf-8"><meta name="viewport" content="width=device-width,initial-scale=1"><title>Práctica 07 · Navegación de sketches</title><link rel="stylesheet" href="./entrega.css"><link rel="stylesheet" href="./lectura.css"><script src="./lectura.js" defer></script></head>
+<html lang="es"><head><meta charset="utf-8"><meta name="viewport" content="width=device-width,initial-scale=1"><title>Práctica 07 · Navegación de sketches</title><script src="./marca.js"></script><link rel="stylesheet" href="./entrega.css"><link rel="stylesheet" href="./lectura.css"><script src="./lectura.js" defer></script></head>
 <body><header><p class="eyebrow">PRÁCTICA 07</p><nav aria-label="Sección Práctica 07"><a href="../../index.html#practica-07">Volver al portal</a><a href="./revision.html">Los 15 puntos</a><a href="./navegacion.html">Diagrama conectado</a><a href="../GUI/practica-07.html">Galería de sketches</a><a href="./index.html">Prototipo</a></nav></header>
 <main class="reading"><h1 id="práctica-07-navegación-de-sketches">Práctica 07 · Navegación de sketches</h1>
 <p>Esta guía sigue los <strong>15 puntos solicitados</strong>, en el mismo orden. En cada punto encontrarás qué se hizo y un enlace para revisarlo. Los sketches se consultan en GUI; los documentos completos permanecen en sus carpetas.</p>
